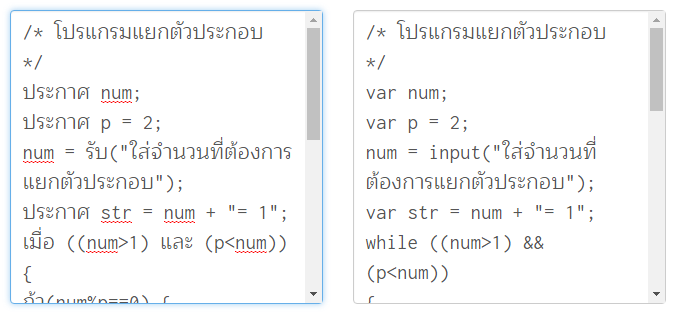
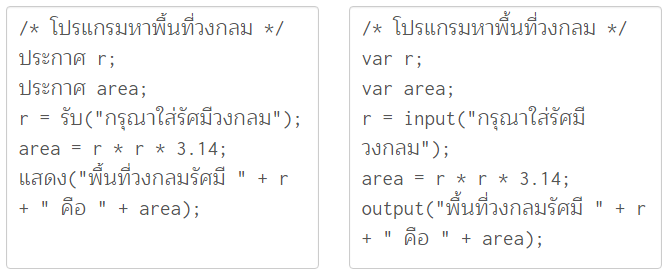
Favico + New functions!
+ Favicon
+ ถาม() = confirm(return boolean)
+ แบ่ง กรณี = switch case

diff --git a/lang_lib/translateJS.js b/lang_lib/translateJS.js
@@ -23,6 +23,10 @@ function translateCode(codeInput,displayIo = false,stdIo = false) {
     codeTemp = codeTemp.replace(/แสดง/g, "output");
     codeTemp = codeTemp.replace(/#output/g, "แสดง");
 
+    /* ask*/
+    codeTemp = codeTemp.replace(/ถาม/g, "ask");
+    codeTemp = codeTemp.replace(/#ask/g, "ถาม");
+
     /* if */
     codeTemp = codeTemp.replace(/ถ้า/g, "if");
     codeTemp = codeTemp.replace(/#if/g, "ถ้า");
@@ -39,6 +43,16 @@ function translateCode(codeInput,displayIo = false,stdIo = false) {
     codeTemp = codeTemp.replace(/หรือ/g, "||");
     codeTemp = codeTemp.replace(/#&&/g, "และ");
     codeTemp = codeTemp.replace(/#\|\|/g, "หรือ");
+
+    /* switch case */
+    codeTemp = codeTemp.replace(/แบ่ง/g, "switch");
+    codeTemp = codeTemp.replace(/กรณี/g, "case");
+    codeTemp = codeTemp.replace(/อื่นๆ/g, "default");
+    codeTemp = codeTemp.replace(/case(.+);/g, "case$1; break;");
+    codeTemp = codeTemp.replace(/ต่อ; break;/g, "continue;");
+    codeTemp = codeTemp.replace(/#switch/g, "แบ่ง");
+    codeTemp = codeTemp.replace(/#case/g, "กรณี");
+    codeTemp = codeTemp.replace(/#default/g, "อื่นๆ");
 
     /* while */
     codeTemp = codeTemp.replace(/เมื่อ/g, "while");
@@ -58,6 +72,7 @@ function translateCode(codeInput,displayIo = false,stdIo = false) {
 
     /* { } */
     codeTemp = codeTemp.replace(/(\{|\})/g, "<br>$1<br>");
+    codeTemp = codeTemp.replace(/<br>(\})/g, "$1");
 
     /* comment */
     codeTemp = codeTemp.replace(/(\/\*.+?\*\/)/g, "$1<br>");
@@ -94,14 +109,24 @@ function translateCode(codeInput,displayIo = false,stdIo = false) {
     codeTemp = codeTemp.replace(/เท็จ/g, "false");
     codeTemp = codeTemp.replace(/#false/g, "เท็จ");
 
+    /* COLOR SECTION */
+
+    /* comment */
+    /*codeTemp = codeTemp.replace(/\/\*([\s\S]*?)\*\//g, '<span class="comment">$1</span>');
+    codeTemp = codeTemp.replace(/\/\/(.*)/g, '<span class="comment">$1</span>');*/
+
+    /* blockquote */
+    /*codeTemp = codeTemp.replace(/(["|'].*?["|'])/g, '<span class="blockquote">$1</span>');*/
+
     if(displayIo == true){
-      codeTemp += '<br>function input(text){<br>return prompt(text, "");<br>}<br><br>function output(text){<br>alert(text);<br>}';
+      codeTemp += '<br>function input(text){<br>return prompt(text, "");<br>}<br><br>function output(text){<br>alert(text);<br>}<br><br>function ask(text){<br>return confirm(text);<br>}';
     }
 
     if(stdIo == true){
       codeTemp = codeTemp.replace(/output\(/g, "alert\(");
       codeTemp = codeTemp.replace(/input\((".*?")\)/g, "prompt\($1, \"\"\)");
       codeTemp = codeTemp.replace(/input\(\)/g, "prompt\(\"\", \"\"\)");
+      codeTemp = codeTemp.replace(/ask\(/g, "confirm\(");
     }
 
     return codeTemp; // return innerHTML

diff --git a/elements/head.html b/elements/head.html
@@ -1,7 +1,7 @@
 <meta charset="UTF-8">
 <meta name="viewport" content="width=device-width, initial-scale=1.0">
 <meta http-equiv="X-UA-Compatible" content="ie=edge">
-<title>อมรา - ภาษาเขียนโปรแกรมสำหรับคนไทย</title>
+<title>อมรา - เรียนเขียนโปรแกรมง่ายๆ ผ่านคำสั่งภาษาไทย</title>
 <link href="css/bootstrap.min.css" rel="stylesheet">
 <link href="https://fonts.googleapis.com/css?family=Kanit" rel="stylesheet">
 <link rel="stylesheet" href="css/font-awesome.min.css">
@@ -11,3 +11,21 @@
   <script src="https://oss.maxcdn.com/html5shiv/3.7.3/html5shiv.min.js"></script>
   <script src="https://oss.maxcdn.com/respond/1.4.2/respond.min.js"></script>
 <![endif]-->
+<!-- FavIcon -->
+<link rel="apple-touch-icon" sizes="57x57" href="img/favicon/apple-icon-57x57.png">
+<link rel="apple-touch-icon" sizes="60x60" href="img/favicon/apple-icon-60x60.png">
+<link rel="apple-touch-icon" sizes="72x72" href="img/favicon/apple-icon-72x72.png">
+<link rel="apple-touch-icon" sizes="76x76" href="img/favicon/apple-icon-76x76.png">
+<link rel="apple-touch-icon" sizes="114x114" href="img/favicon/apple-icon-114x114.png">
+<link rel="apple-touch-icon" sizes="120x120" href="img/favicon/apple-icon-120x120.png">
+<link rel="apple-touch-icon" sizes="144x144" href="img/favicon/apple-icon-144x144.png">
+<link rel="apple-touch-icon" sizes="152x152" href="img/favicon/apple-icon-152x152.png">
+<link rel="apple-touch-icon" sizes="180x180" href="img/favicon/apple-icon-180x180.png">
+<link rel="icon" type="image/png" sizes="192x192"  href="img/favicon/android-icon-192x192.png">
+<link rel="icon" type="image/png" sizes="32x32" href="img/favicon/favicon-32x32.png">
+<link rel="icon" type="image/png" sizes="96x96" href="img/favicon/favicon-96x96.png">
+<link rel="icon" type="image/png" sizes="16x16" href="img/favicon/favicon-16x16.png">
+<link rel="manifest" href="img/favicon/manifest.json">
+<meta name="msapplication-TileColor" content="#ffffff">
+<meta name="msapplication-TileImage" content="img/favicon/ms-icon-144x144.png">
+<meta name="theme-color" content="#ffffff">

diff --git a/codeJS.php b/codeJS.php
@@ -1,3 +1,30 @@
+<?
+  if(isset($_GET['p'])){
+    switch ($_GET['p']) {
+      case 1: // โปรแกรมสวัสดี
+        $code = '<div>/* โปรแกรมสวัสดี */</div><div><br></div><div>ประกาศ name;</div><div>name = รับ("กรุณาใส่ชื่อ");</div><div>แสดง("สวัสดี " + name);</div>';
+        break;
+      case 2: // โปรแกรมหาพื้นที่วงกลม
+        $code = '<div>/* โปรแกรมหาพื้นที่วงกลม */</div><div><br></div><div>ประกาศ r;</div><div>ประกาศ area;</div><div>r = รับ("กรุณาใส่รัศมีวงกลม");</div><div>area = r * r * 3.14;</div><div>แสดง("พื้นที่วงกลมรัศมี " + r + " คือ " + area);</div>';
+        break;
+      case 3: // โปรแกรมตัดเกรด
+        $code = '<div>/* โปรแกรมตัดเกรด */</div><div><br></div>ประกาศ score;<div>score = รับ("กรุณาใส่คะแนน");</div><div>ถ้า(score&lt;50){</div><div>แสดง("เกรด F");</div><div>}ไม่ก็ถ้า(score&lt;60){</div><div>แสดง("เกรด D");</div><div>}ไม่ก็ถ้า(score&lt;70){</div><div>แสดง("เกรด C");</div><div>}ไม่ก็ถ้า(score&lt;80){</div><div>แสดง("เกรด B");</div><div>}ไม่ก็{</div><div>แสดง("เกรด A");</div><div>}</div>';
+        break;
+      case 4: // โปรแกรมวาดกล่องจากตัวอักษร
+        $code = '<div>/* โปรแกรมวาดกล่องสี่เหลี่ยม */</div><div><br></div><div>ประกาศ i;</div><div>ประกาศ j;</div><div>ประกาศ result = "";</div><div>ประกาศ row;</div><div>row = รับ("ใส่จำนวนแถว");</div><div>วน (i) จาก (1) ถึง (row) โดย (1){</div><div>วน (j) จาก (1) ถึง (row) โดย (1){</div><div>ถ้า(i==1 หรือ j==1 หรือ j==row หรือ i==row){</div><div>result += "0";</div><div>}ไม่ก็{</div><div>result += " &nbsp;";<br></div><div>}</div><div>}</div><div>result += "\n";</div><div>}</div><div>แสดง(result);</div>';
+        break;
+      case 5: // โปรแกรมแยกตัวประกอบ
+        $code = '<div>/* โปรแกรมแยกตัวประกอบ */</div><div><br></div><div>ประกาศ num;</div><div>ประกาศ p = 2;</div><div>num = รับ("ใส่จำนวนที่ต้องการแยกตัวประกอบ");</div><div>ประกาศ str = num + " = 1";</div><div>เมื่อ ((num&gt;1) และ (p&lt;num)) {</div><div>ถ้า(num%p==0) {</div><div>str = str + " x " + p;</div><div>num = num/p;</div><div>p=2;</div><div>} ไม่ก็ {</div><div>p +=1;</div><div>}</div><div>} //while</div><div>str = str + " x " + p // เพิ่มตัวที่ไม่ลง</div><div>แสดง(str);</div>';
+        break;
+      case 6: // โปรแกรมแจกแจงเงินเป็นธนบัตร/เหรียญ
+        $code = '<div>/* โปรแกรมแจกแจงเงินเป็นธนบัตร/เหรียญ */</div><div><br></div><div>ประกาศ save ,money, rem,&nbsp;<span>th=0, hTh</span><span>=0</span><span>, h</span><span>=0</span><span>, hH</span><span>=0</span><span>, tw</span><span>=0</span><span>, t</span><span>=0</span><span>, f</span><span>=0</span><span>, d</span><span>=0</span><span>; //1000 500 100 50 20 10 5 2</span></div><div>money = รับ("กรุณาใส่จำนวนเงิน");</div><div>save = money;</div><div>if(money&gt;1000-1){</div><div>rem = money%1000;</div><div>money -= rem;</div><div>th = money/1000;</div><div>money /= 1000;</div><div>money = money + rem - th;</div><div>}</div><div><div>if(money&gt;500-1){</div><div>rem = money%500;</div><div>money -= rem;</div><div>hTh = money/500;</div><div>money /= 500;</div><div>money = money + rem - hTh;</div><div>}</div></div><div><div>if(money&gt;100-1){</div><div>rem = money%100;</div><div>money -= rem;</div><div>h = money/100;</div><div>money /= 100;</div><div>money = money + rem - h;</div><div>}</div><div><div>if(money&gt;50-1){</div><div>rem = money%50;</div><div>money -= rem;</div><div>hH = money/50;</div><div>money /= 50;</div><div>money = money + rem - hH;</div><div>}</div><div><div>if(money&gt;20-1){</div><div>rem = money%20;</div><div>money -= rem;</div><div>tw = money/20;</div><div>money /= 20;</div><div>money = money + rem - tw;</div><div>}</div><div><div>if(money&gt;10-1){</div><div>rem = money%10;</div><div>money -= rem;</div><div>t = money/10;</div><div>money /= 10;</div><div>money = money + rem - t;</div><div>}</div><div><div>if(money&gt;5-1){</div><div>rem = money%5;</div><div>money -= rem;</div><div>f = money/5;</div><div>money /= 5;</div><div>money = money + rem - f;</div><div>}</div><div><div>if(money&gt;2-1){</div><div>rem = money%2;</div><div>money -= rem;</div><div>d = money/2;</div><div>money /= 2;</div><div>money = money + rem - d;</div><div>}</div><div>แสดง("จำนวนเงินทั้งหมด "+save+" บาท ประกอบด้วย\n &nbsp; - ธนบัตร 1000 บาท "+th+" ใบ\n &nbsp; - ธนบัตร 500 บาท "+hTh+" ใบ\n &nbsp; - ธนบัตร 100 บาท "+h+" ใบ\n &nbsp; - ธนบัตร 50 บาท "+hH+" ใบ\n &nbsp; - ธนบัตร 20 บาท "+tw+" ใบ\n &nbsp; - เหรียญ 10 บาท "+t+" เหรียญ\n &nbsp; - เหรียญ 5 บาท "+f+" เหรียญ\n &nbsp; - เหรียญ 2 บาท "+d+" เหรียญ\n &nbsp; - เหรียญ 1 บาท "+money+" เหรียญ");</div></div></div></div></div></div></div>';
+        break;
+      default:
+        $code = "";
+        break;
+    }
+  }
+?>
 <!DOCTYPE html>
 <html lang="th">
 <head>
@@ -71,7 +98,7 @@
             <div class="panel-body" id="codeArea" style="height:53vh;">
               <div class="col-sm-6 col-xs-12" style="height:100%;">
                 <div contenteditable="true" class="form-control" id="codeInput" oninput="codeUpdate()">
-
+                  <? echo $code; ?>
                 </div>
               </div>
               <div class="col-sm-6 hidden-xs" style="height:100%;">
@@ -125,7 +152,7 @@
     <script src="js/bootstrap.min.js"></script>
 	<script>
 		$(document).ready(function(){
-			$('[data-toggle="tooltip"]').tooltip(); 
+			$('[data-toggle="tooltip"]').tooltip();
 		});
 	</script>
     <script>

diff --git a/index.php b/index.php
@@ -63,16 +63,16 @@
 					<div class="panel-body">
 						<div class="col-md-6">
 							<ul class="nav nav-pills nav-stacked">
-							  <li role="presentation"><a href="#">โปรแกรมสวัสดี</a></li>
-							  <li role="presentation"><a href="#">โปรแกรมตัดเกรด</a></li>
-							  <li role="presentation"><a href="#">โปรแกรมแยกตัวประกอบ</a></li>
+							  <li role="presentation"><a href="codeJS.php?p=1">โปรแกรมสวัสดี</a></li>
+							  <li role="presentation"><a href="codeJS.php?p=3">โปรแกรมตัดเกรด</a></li>
+							  <li role="presentation"><a href="codeJS.php?p=5">โปรแกรมแยกตัวประกอบ</a></li>
 							</ul>
 						</div>
 						<div class="col-md-6">
 							<ul class="nav nav-pills nav-stacked">
-							  <li role="presentation"><a href="#">โปรแกรมหาพื้นที่วงกลม</a></li>
-							  <li role="presentation"><a href="#">โปรแกรมวาดกล่องจากตัวอักษร</a></li>
-							  <li role="presentation"><a href="#">โปรแกรมแจกแจงเงินเป็นธนบัตร/เหรียญ</a></li>
+							  <li role="presentation"><a href="codeJS.php?p=2">โปรแกรมหาพื้นที่วงกลม</a></li>
+							  <li role="presentation"><a href="codeJS.php?p=4">โปรแกรมวาดกล่องสี่เหลี่ยม</a></li>
+							  <li role="presentation"><a href="codeJS.php?p=6">โปรแกรมแจกแจงเงินเป็นธนบัตร/เหรียญ</a></li>
 							</ul>
 						</div>
 					</div>
@@ -83,7 +83,7 @@
 			<div class="col-md-12">
 				<img src="img/coding_example01.PNG" alt="Example" class="img-responsive"><br>
 			</div>
-			<div class="col-md-12">
+			<div class="col-md-12 text-center">
 				<img src="img/coding_example02.PNG" alt="Result of Example" class="img-responsive"><br>
 			</div>
 		</div>
@@ -97,7 +97,7 @@
 			<div class="panel panel-default">
 			  <div class="panel-heading"><h1>สุเทพ จันทร์ชูผล<br><small>&emsp;Amara Founder</small></h1></div>
 			  <div class="panel-body">
-				<h3>"... ทุกคนควรที่จะเขียนโปรแกรมด้วยความเข้าใจ ไม่ใช่ท่องจำ ..."</h3> 
+				<h3>"... ทุกคนควรที่จะเขียนโปรแกรมด้วยความเข้าใจ ไม่ใช่ท่องจำ ..."</h3>
 				<p>&emsp;การเขียนโปรแกรมเป็นพื้นฐานที่ดีในการฝึกการคิดอย่างเป็นระบบ และช่วยให้สามารถคิดหาวิธีแก้ไขปัญหาได้อย่างเป็นขั้นเป็นตอน ผมเชื่อว่าภาษา "อมรา" จะช่วยเป็นพื้นฐานที่ดี และจะพัฒนาโปรแกรมเมอร์ชาวไทยที่มีฝีมือออกมาอีกมากมาย</p>
 			  </div>
 			</div>
@@ -131,7 +131,7 @@
   <script src="js/bootstrap.min.js"></script>
 	<script>
 		$(document).ready(function(){
-			$('[data-toggle="tooltip"]').tooltip(); 
+			$('[data-toggle="tooltip"]').tooltip();
 		});
 	</script>
   <script>

diff --git a/elements/navbar.php b/elements/navbar.php
@@ -9,7 +9,7 @@
         <span class="icon-bar"></span>
       </button>
       <a class="navbar-brand" herf="#">
-	    <img alt="Amara" src="img/amaralogo.svg" style="height:1.2em; filter: drop-shadow(0 0 1em white);">
+	    <img alt="Amara" src="img/amaralogo.svg" style="height:1.3em; filter: drop-shadow(0 0 1em white);">
 	  </a>
     </div>
 
@@ -34,9 +34,9 @@
             --><!--
           </ul>
         </li>
-		
+
         <li id="navWB"><a href="board.php"><i class="fa fa-question-circle" aria-hidden="true"></i> Q&amp;A</a></li>-->
-        <li id="navContact"><a href="https://www.facebook.com/%E0%B8%AD%E0%B8%A1%E0%B8%A3%E0%B8%B2-%E0%B8%A0%E0%B8%B2%E0%B8%A9%E0%B8%B2%E0%B9%80%E0%B8%82%E0%B8%B5%E0%B8%A2%E0%B8%99%E0%B9%82%E0%B8%9B%E0%B8%A3%E0%B9%81%E0%B8%81%E0%B8%A3%E0%B8%A1%E0%B8%AA%E0%B8%B3%E0%B8%AB%E0%B8%A3%E0%B8%B1%E0%B8%9A%E0%B8%84%E0%B8%99%E0%B9%84%E0%B8%97%E0%B8%A2-1493618624012296/"><i class="fa fa-facebook-official" aria-hidden="true"></i> Fanpage</a></li>
+        <li id="navContact"><a href="https://www.facebook.com/AmaraProgramming/"><i class="fa fa-facebook-official" aria-hidden="true"></i> Fanpage</a></li>
       </ul>
 	  <!--
       <ul class="nav navbar-nav navbar-right">

diff --git a/runJS.php b/runJS.php
@@ -5,7 +5,7 @@
 
   <script>
   window.onerror = function(msg, url, linenumber){
-    alert('เกิดข้อผิดพลาด!\n\n'+msg+'\n\nบรรทัดที่: '+(linenumber-44));
+    alert('เกิดข้อผิดพลาด!\n\n'+msg+'\n\nบรรทัดที่: '+(linenumber-44-18));
     window.close();
     return true;
   }
@@ -41,6 +41,10 @@
 
   function output(text){
     alert(text);
+  }
+
+  function ask(text){
+    return confirm(text);
   }
 
   main();
